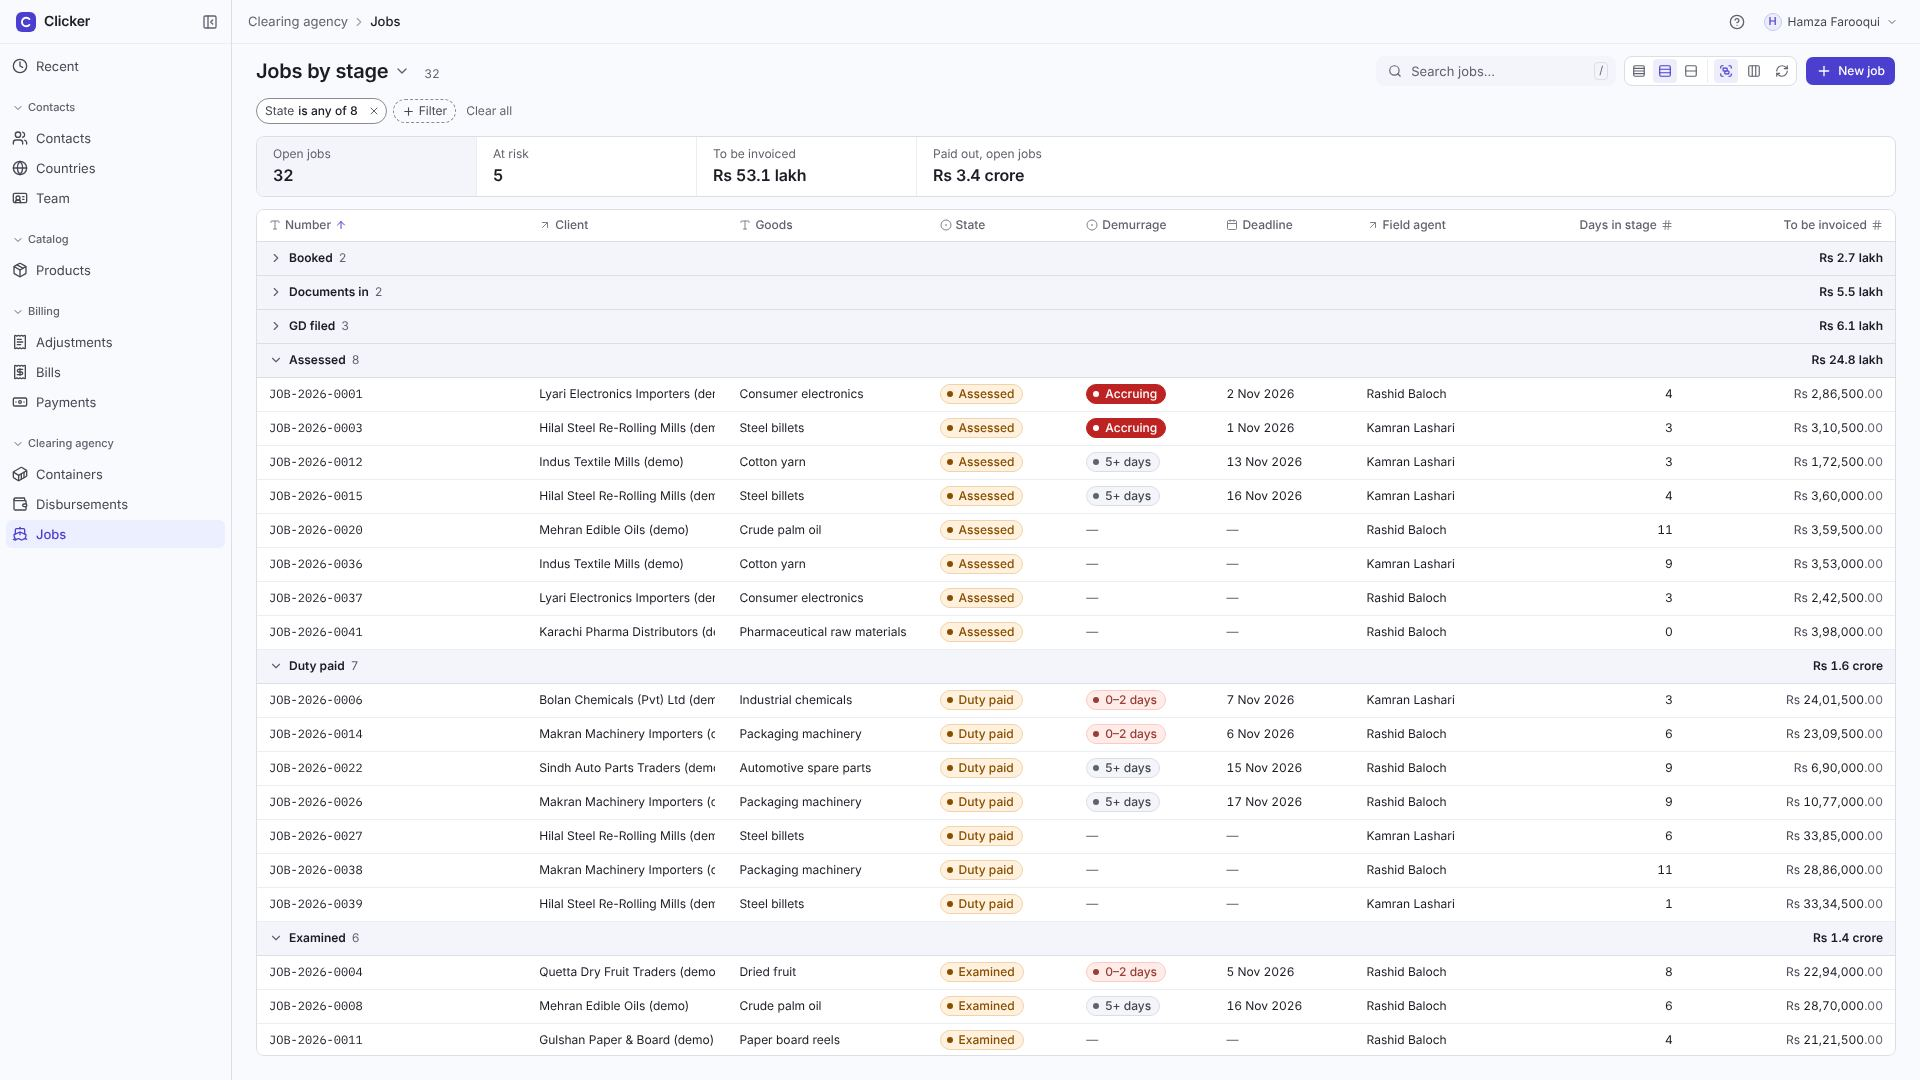
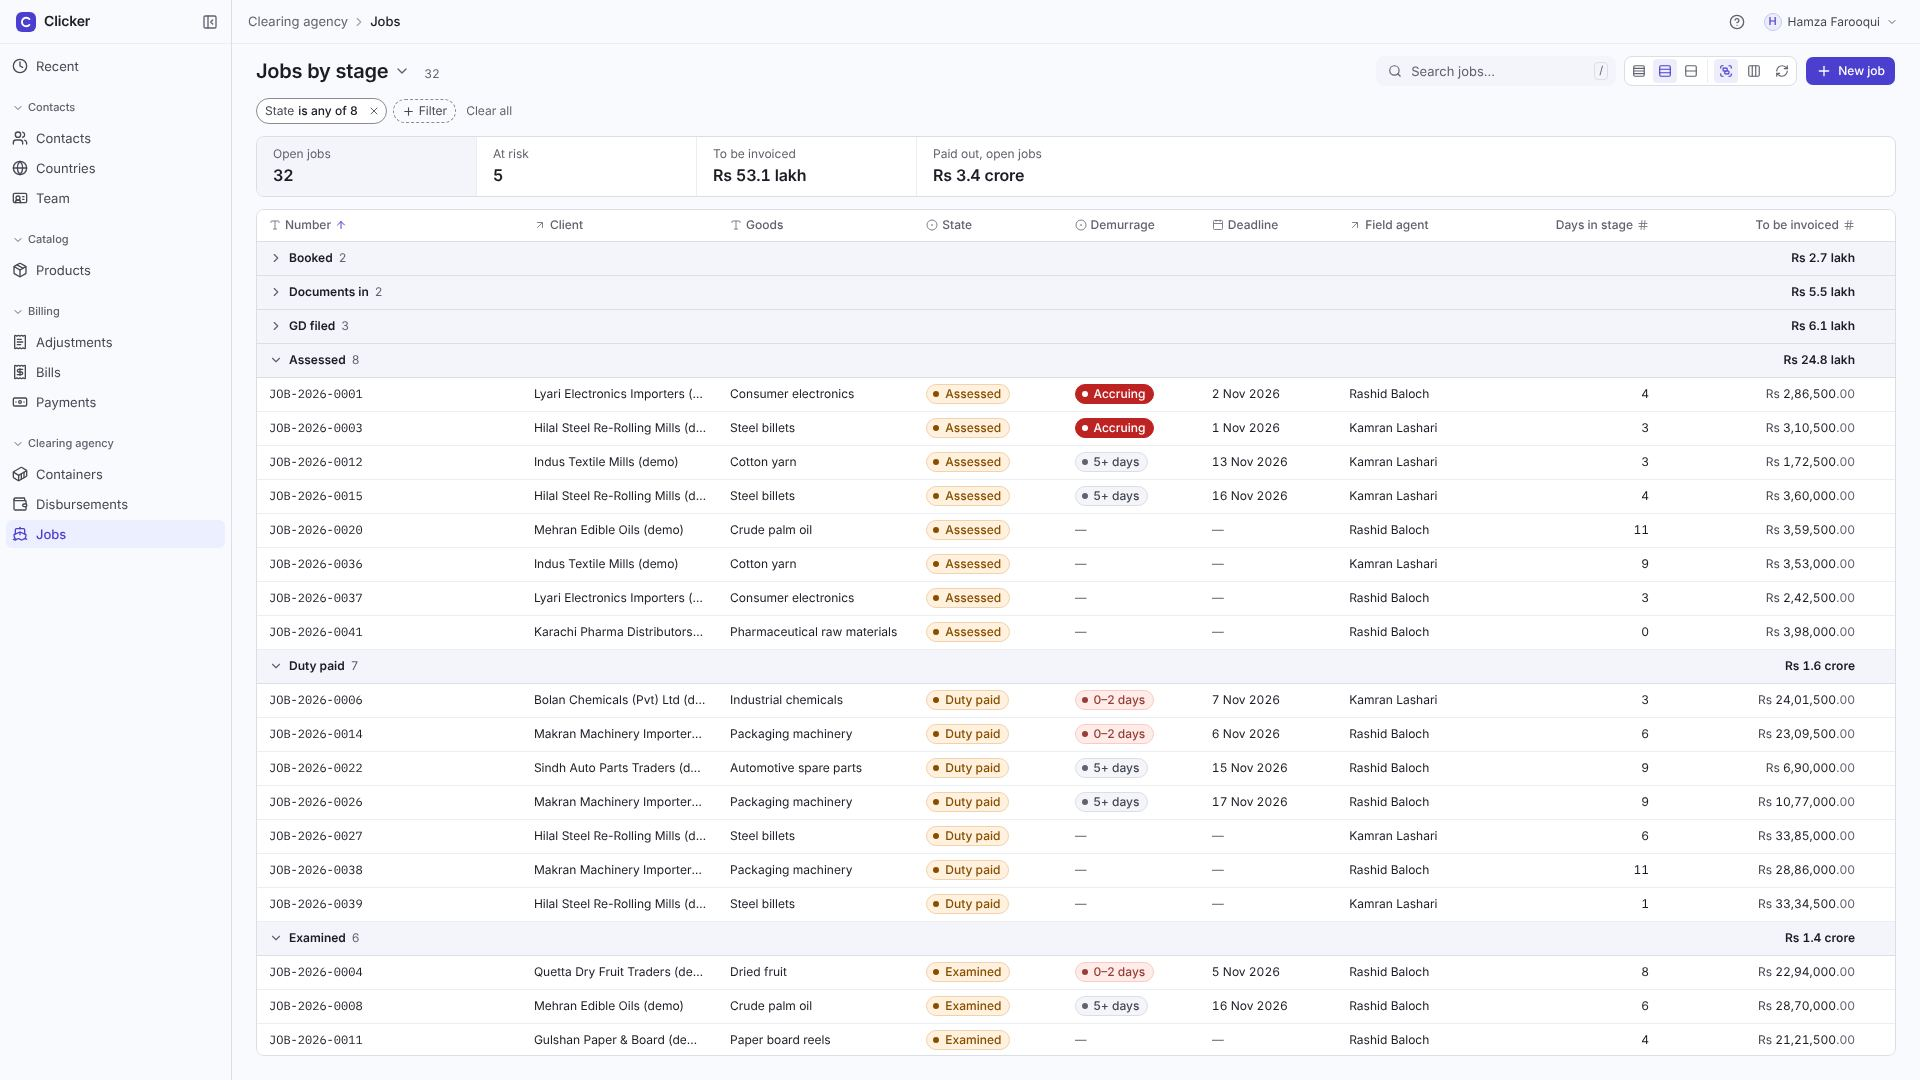
S-8b: column floors that fit a 1280 screen with the row-action strip, chips never cut in a related list

diff --git a/frontend/src/features/list-renderer/ListRenderer.tsx b/frontend/src/features/list-renderer/ListRenderer.tsx
@@ -153,12 +153,12 @@ const TYPE_WIDTH: Record<string, number> = {
  * The least a column of this type may be squeezed to. A date or an amount cut with an ellipsis is wrong
  * data ("12 Nov 2…"), not a long name: they keep their whole value (a crore-sized amount included).
  */
-const IDENTIFIER_MIN = 132
+const IDENTIFIER_MIN = 124
 /** A person's name is read, not skimmed: "Kamran Lashari", not "Kamran L…". */
-const PERSON_MIN = 136
+const PERSON_MIN = 124
 /** A linked record's name (the customer on a bill) is why the row exists: on a page list it keeps room to be read. */
-const LINK_MIN = 120
-const TYPE_MIN: Record<string, number> = { date: 104, datetime: 148, currency: 136, decimal: 100 }
+const LINK_MIN = 96
+const TYPE_MIN: Record<string, number> = { date: 96, datetime: 148, currency: 136, decimal: 100, integer: 64 }
 
 /**
  * Column widths that use the room they're given. Wider viewport: every column
@@ -187,10 +187,10 @@ function chipColumnMin(labels: string[], floor: number, cap: number): number {
   const longest = labels.reduce((max, label) => Math.max(max, label.length), 0)
   // Capped: a very long label ("Examination labour") ellipsizes inside its chip, which is by design; it must
   // not take the room the other columns need in a narrow table (a related list is 660px wide).
-  return longest === 0 ? floor : Math.max(floor, Math.min(cap, Math.ceil(longest * 6.6) + 52))
+  return longest === 0 ? floor : Math.max(floor, Math.min(cap, Math.ceil(longest * 6.6) + 56))
 }
 /** The strip at a row's right edge that holds its hover actions, so they never sit on top of a figure. */
-const ACTIONS_ROOM = 32
+const ACTIONS_ROOM = 28
 const OVERSCAN_ROWS = 12
 
 export function ListRenderer(props: ListRendererProps) {
@@ -537,7 +537,7 @@ function ListView({
       const choiceLabels = field.type === 'selection' ? (field.choices ?? []).map((choice) => choice.label) : []
       // A document number (JOB-2026-0001, BILL-2026-00001) is read whole: a mono identifier never wraps or is cut.
       const identifierMin = field.assigned ? IDENTIFIER_MIN : 0
-      const floor = Math.max(minWidth, TYPE_MIN[field.type] ?? 0, identifierMin, field.person ? PERSON_MIN : 0, !embedded && field.type === 'many_to_one' ? LINK_MIN : 0)
+      const floor = Math.max(TYPE_MIN[field.type] ?? minWidth, identifierMin, field.person ? PERSON_MIN : 0, !embedded && field.type === 'many_to_one' ? LINK_MIN : 0)
       // A related list is 660px wide: its chips may be cut (and say their full value on hover); a page list's never are.
       const columnMin = chipColumnMin([...stateLabels, ...choiceLabels], floor, embedded ? 112 : 196)
       return {
